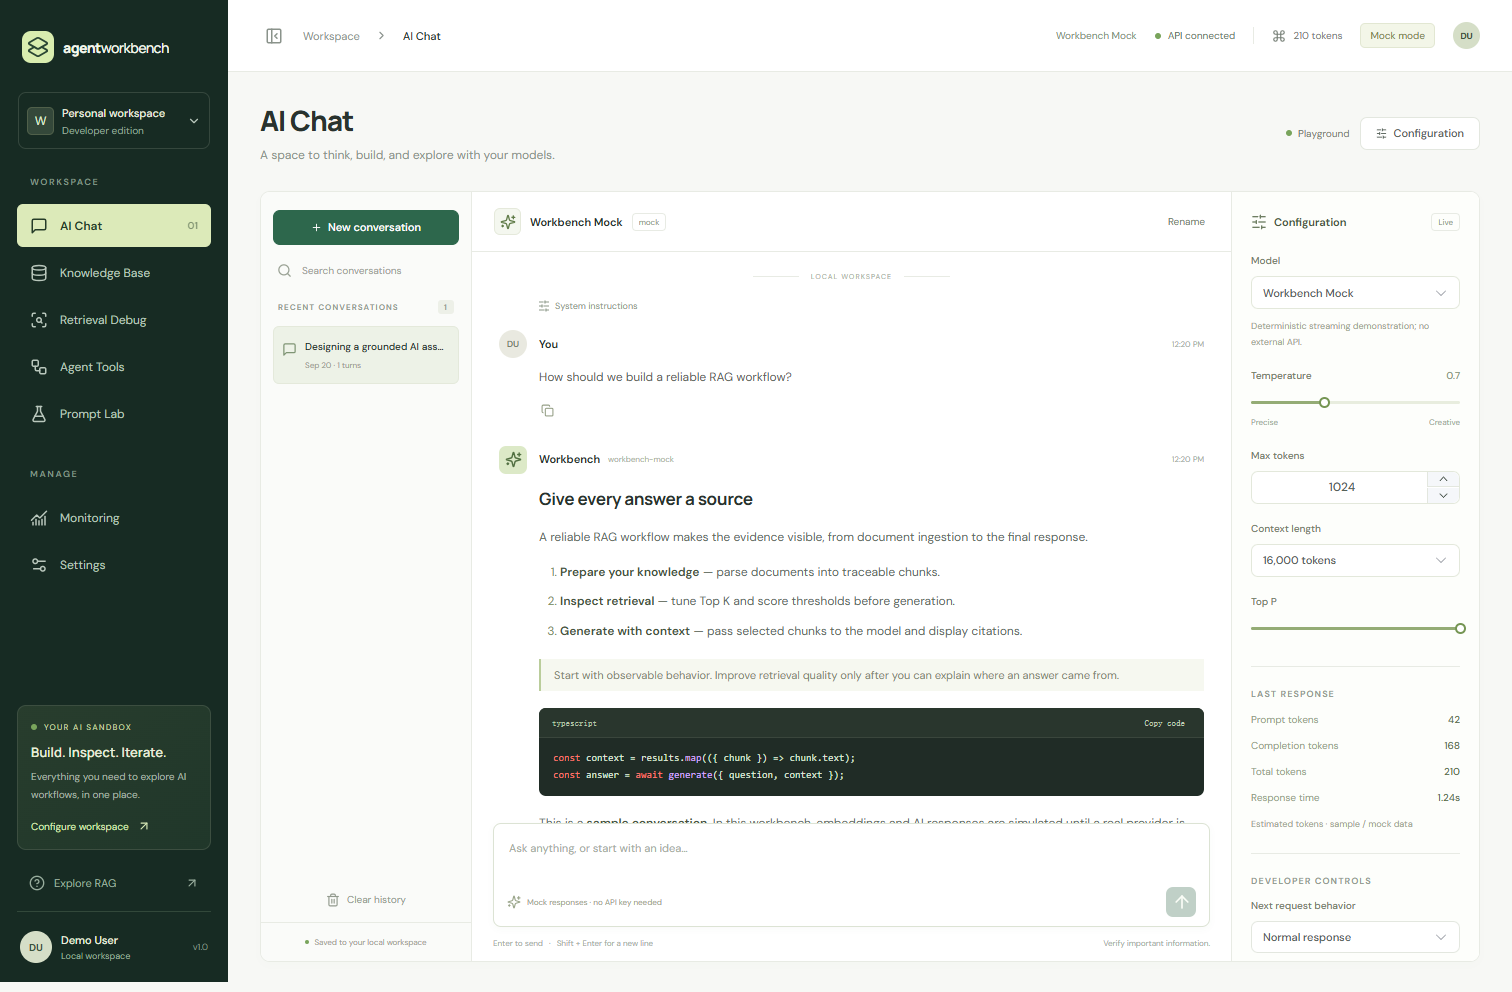
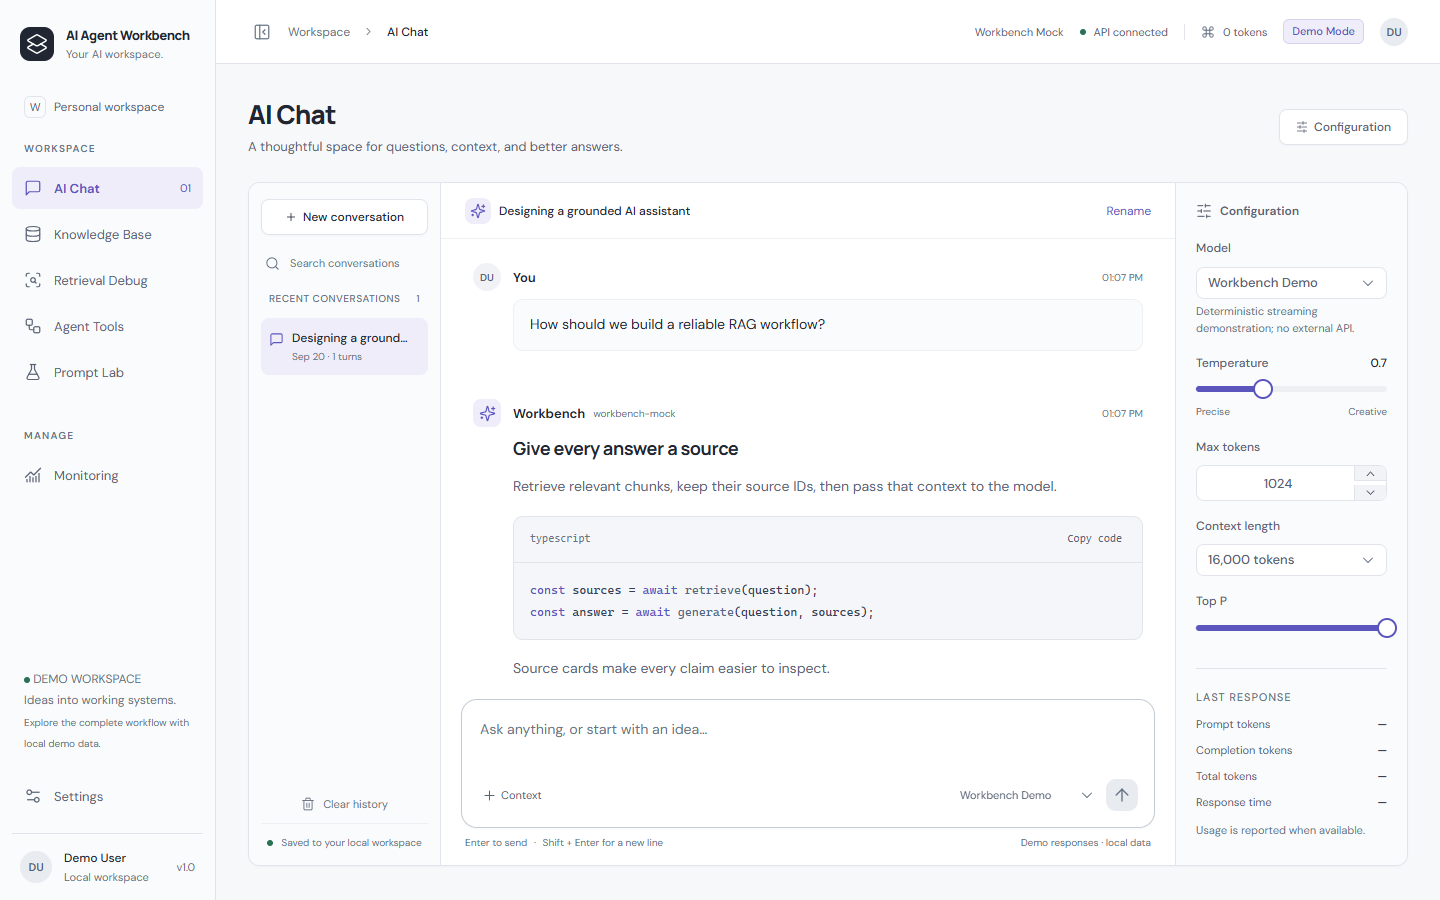
docs: publish polished portfolio screenshots and visual acceptance

diff --git a/docs/UI_UX_REVIEW.md b/docs/UI_UX_REVIEW.md
@@ -1,0 +1,76 @@
+# UI / UX 第二阶段验收
+
+基于现有 Vue 3 + Express 项目进行视觉重构，保留 API、共享协议、Pinia store、SSE、取消、超时、检索与工具执行逻辑。没有新增运行时依赖，没有重建项目或修改旧提交。
+
+## 设计规范
+
+`src/assets/tokens.css` 是唯一语义颜色来源；`main.css` 定义基础排版、壳层和组件；`workspaces.css` 定义七个工作区布局。页面不再各自维护一套 scoped 色值。ECharts 从同一组 CSS 变量读取配色，主题切换时更新。
+
+| 维度   | 规范                                                                                     |
+| ------ | ---------------------------------------------------------------------------------------- |
+| 浅色   | 冷中性背景 `#f7f8fa`、白色主表面、细灰边框                                               |
+| 深色   | 石墨背景 `#181b21`、分层表面 `#20242c` / `#1c2027`                                       |
+| 强调色 | 浅色 `#5b55be`，深色 `#b0a9f7`；仅用于主要操作、选中态与关键数据                         |
+| 状态   | success / warning / danger / info 分别有文本与背景 token；同时保留文字与图标             |
+| 间距   | 4、8、12、16、20、24、32、40、48、64 px                                                  |
+| 圆角   | 6、8、10、12、16 px；输入区 16，主面板 12，小控件 6–8                                    |
+| 字体   | 本地 DM Sans / Manrope；中文回退 PingFang SC / Microsoft YaHei；代码 Cascadia / Consolas |
+| 层级   | 主标题 26、次标题 18、正文 14、辅助正文 13、表单/元信息 11–12 px                         |
+| 数字   | 指标、Token、耗时、分数采用 tabular numerals                                             |
+| 动效   | 160–200 ms；尊重 reduced motion，图表同样关闭动画                                        |
+| 焦点   | 键盘 focus-visible、表单聚焦边框、可聚焦的长输出区域                                     |
+
+核心文字在主表面的实测对比度：浅色主文字 15.17:1、次文字 5.99:1、辅助文字 4.74:1、强调色 6.02:1；深色分别 13.25:1、8.20:1、6.03:1、7.31:1。此检查针对核心 token 组合，不等同于全站无障碍认证。
+
+## 页面改动
+
+- **壳层**：216 px 侧栏、64 px Header；收敛导航，Settings 与用户区域移至底部，保留 API 状态、Token 与 Demo Mode。折叠为图标栏，移动端为带遮罩的导航。
+- **Chat**：开放式 assistant 正文、浅底 user 消息、四类欢迎建议、悬停/键盘操作、更多菜单删除历史；模型选择器和 Context 路由实际可用。保留 Enter/Shift+Enter/IME、流式状态、停止、重试、重新生成、复制、搜索与重命名。窄屏配置以浮层展示并提供关闭按钮。
+- **Knowledge**：集合卡片包含文档/Chunk 数、状态和更新时间；空集合显示 Empty。上传区支持鼠标、键盘与拖拽，加载骨架、解析失败与重试保留。
+- **Retrieval**：文档来源卡片、排名、词法分数条、可展开 Metadata；生成答案与 Sources 独立显示。明确说明词法分数不是向量相似度。
+- **Agent**：六步连接时间线，状态、图标与耗时可扫描；参数和结果可展开，JSON 使用现有安全 Markdown/高亮/复制组件。失败位置与等待步骤分开显示；不声称显示模型思维链。
+- **Prompt**：模板库、编辑器、输出区分栏；Few-shot 折叠，变量并排、参数紧凑，长输出在独立区域阅读；版本快照、恢复和流式测试保持。
+- **Monitoring**：五个统一 KPI，图表共享语义配色、可读轴标签、千位缩写与主题化 Tooltip；基线来源始终可见，日期筛选与刷新保留。
+- **Settings**：Workspace & provider、Network & access、Appearance、Model defaults 分组；高级 provider 配置按需展开。
+- **反馈状态**：错误先说明问题与恢复操作，错误码/Request ID 放在 Show details；Diagnostics 默认收起；无数据时提供下一步操作。
+
+## 视觉审阅与修正
+
+按页面层级、阅读密度、首屏重点、边界对齐、控件状态、深色对比度和窄屏可操作性审阅实际截图。
+
+首轮发现并修正：选择器内部宽度塌缩、输入区模型名被挤压、Chat 高度造成外层滚动、欢迎建议首屏遮挡、Agent 最终结果位置过低、Prompt 保存操作首屏过低、移动端日期筛选溢出。合成数据与演示说明保留；没有用隐藏业务内容或截图后期处理掩盖问题。
+
+## 可重复截图
+
+执行 `npm run test:visual`，使用隔离的 5175/3004 服务与临时数据库。主图均为 1440×900 的真实浏览器 viewport 截图，无拼接、修图或全页缩放。Chat 的精简样例只写入该临时数据库，不修改用户当前对话。
+
+主图：`chat.png`、`knowledge.png`、`retrieval.png`、`agent.png`、`prompt.png`、`monitoring.png`。补充：欢迎页、检索生成答案、Settings、深色 Chat / Monitoring / Settings、1280 / 1024 / 390 Chat。
+
+截图模式 `?presentation=1` 只隐藏 Diagnostics。功能状态、空状态、失败状态和真实数据说明不受该参数影响。
+
+## 验证与边界
+
+2026-09-20 本地验收结果：
+
+| 检查                  | 结果                                                                                    |
+| --------------------- | --------------------------------------------------------------------------------------- |
+| `npm run build`       | 通过，前端与 BFF 构建完成                                                               |
+| `npm run typecheck`   | 通过，Vue / 前端 / shared / BFF 类型检查                                                |
+| `npm run lint`        | 通过，0 error / 0 warning                                                               |
+| `npm test`            | 34/34，通过原有 3 个测试文件                                                            |
+| `npm run test:smoke`  | 10/10，通过原有行为场景                                                                 |
+| `npm run test:visual` | 新增 3/3，通过                                                                          |
+| 响应式矩阵            | 7 页 × 1440 / 1280 / 1024 / 390 × light / dark，共 56 组，无页面横向溢出或 pageerror    |
+| 交互补充              | 四张建议卡、Context 路由、JSON 展开、窄屏配置开关、移动端历史选择、主题持久化           |
+| 生产构建复核          | `NODE_ENV=production` 下独立 3003 服务：SPA 路由、Chat、Settings 和深色 Monitoring 正常 |
+| 架构保留              | 与第一阶段末尾 `611c337` 比较，server/shared/api/services/stores/composables 无改动     |
+
+原有 Vitest 数量保持 34，Smoke 保持 10。Smoke 仅因 UI 更新而展开 Diagnostics / Show details，并把工具结果断言定位到最终答案，避免高亮 JSON 中相同数字造成歧义；没有删除业务断言。新增 3 个视觉测试独立运行，输出目录与 Smoke 隔离。期间发现并修复了并行测试输出目录清理冲突。
+
+可机读证据：[responsive matrix](visual-responsive.json)、[text contrast](visual-contrast.json)。Build 仍有依赖 Zod 自带 PURE 注释位置警告，不影响构建，未引入新的构建错误。
+
+阶段提交：`6529411` 设计变量、`571b250` 壳层与 Chat、`539dcdb` 知识/检索/工具/Prompt/分析工作区、`fb0c5cc` 响应式与主题视觉验收。截图和本文随后由独立文档提交保存；旧历史未改写。
+
+当前测试范围内未发现阻断性的视觉问题。不是对所有浏览器、操作系统字体和任意长内容的全面保证。
+
+长对话、长 JSON、完整仪表盘和窄屏文档表格采用正常滚动阅读；截图展示首屏，未将完整内容强行压缩。移动端保持基本可用，重点优化桌面工作区。真实供应商调用需要用户配置服务端凭据；本轮不新增向量检索、多租户或生产部署能力。

diff --git a/README.md b/README.md
@@ -1,8 +1,16 @@
 # AI Agent Workbench
 
-一个可在本地运行、无需 API Key 即可演示的 AI 应用工作台。面向 AI 大模型前端 / AI 应用开发岗位，覆盖对话、知识库、检索调试、工具执行、Prompt 版本管理和可观测性。
+A production-style AI application frontend demonstrating streaming chat, RAG interaction, agent tool execution, prompt engineering and observability.
 
-**Vue 3 · TypeScript · Vite · Pinia · Element Plus · Express · ECharts**
+**Vue 3 · TypeScript · Node.js · Streaming · RAG · Agent · Prompt · Monitoring**
+
+一个无需 API Key 即可本地演示的 AI 应用工作台：发送问题并观察流式输出；上传文档、检查检索来源；执行工具并展开参数与结果；版本化 Prompt，再在 Monitoring 观察请求指标。
+
+![AI Chat — light workspace, grounded conversation and model controls](docs/screenshots/chat.png)
+
+**30 秒了解项目：** 前端呈现完整的 Chat → Knowledge → Retrieval → Tool → Prompt → Monitoring 工作流，BFF 统一处理 SSE、取消、校验与服务端凭据。包含 7 个页面、深浅主题、独立设计变量、完整错误恢复和可重复的浏览器验收。运行 `npm install`、`npm run dev:all` 后打开 <http://127.0.0.1:5173>。
+
+这是本地单用户求职作品。Demo Mode 的回答、Embedding、PDF 解析、行情和天气为模拟数据；真实 TXT/MD 上传、分块、词法检索、安全算术与请求记录实际执行。下方文档说明每项能力的边界。
 
 ## Project Overview
 
@@ -247,6 +255,7 @@ npm run lint
 npm run test
 npm run build
 npm run test:smoke
+npm run test:visual
 ```
 
 Build 输出 `dist/` 与 `dist-server/`。本地生产预览：
@@ -257,17 +266,19 @@ npm start
 # 打开 http://127.0.0.1:3001；前端及 /api 同源
 ```
 
-浏览器测试默认使用已安装的 Microsoft Edge；其他平台可把 `playwright.config.ts` 的 channel 改为已安装的 Chrome，或安装 Playwright Chromium 并移除 channel。Smoke 使用 5174/3002 和独立临时数据库，不会改动主演示数据库。测试截图自动存入 `docs/screenshots/`。
+浏览器测试默认使用已安装的 Microsoft Edge；其他平台可把 Playwright 配置的 channel 改为已安装的 Chrome，或安装 Playwright Chromium 并移除 channel。Smoke 使用 5174/3002，视觉验收使用 5175/3004，各自使用临时数据库，不改动主演示数据。Smoke 保留原有 10 个行为场景；视觉验收另有 3 个测试，覆盖 7 页 × 4 种宽度 × 2 种主题、文字对比度、窄屏面板和完成态截图。请顺序执行两组浏览器测试。
+
+`npm run test:visual` 生成 `docs/screenshots/` 中的 1440×900 截图和额外断点截图。截图通过真实页面与本地 API 生成，Chat 使用明确标注的精简样例，其他工作流实际执行。访问任一路由并附加 `?presentation=1` 可隐藏 Diagnostics，Demo Mode 和数据来源说明仍然保留；此参数不清理数据，也不改变请求逻辑。
 
 ## Screenshots
 
-![AI Chat](docs/screenshots/chat.png)
+![Agent — inspectable execution timeline](docs/screenshots/agent.png)
 
-![Knowledge Base](docs/screenshots/knowledge.png)
+![Retrieval — source chunks and lexical score inspection](docs/screenshots/retrieval.png)
 
 ![Monitoring](docs/screenshots/monitoring.png)
 
-其余截图位于 [docs/screenshots](docs/screenshots)。完整验收记录见 [ACCEPTANCE_REPORT.md](docs/ACCEPTANCE_REPORT.md)。
+其余截图位于 [docs/screenshots](docs/screenshots)。第二阶段设计规范、视觉审阅、测试与限制见 [UI_UX_REVIEW.md](docs/UI_UX_REVIEW.md)。第一阶段功能验收归档见 [ACCEPTANCE_REPORT.md](docs/ACCEPTANCE_REPORT.md)。
 
 ## Limitations
 
